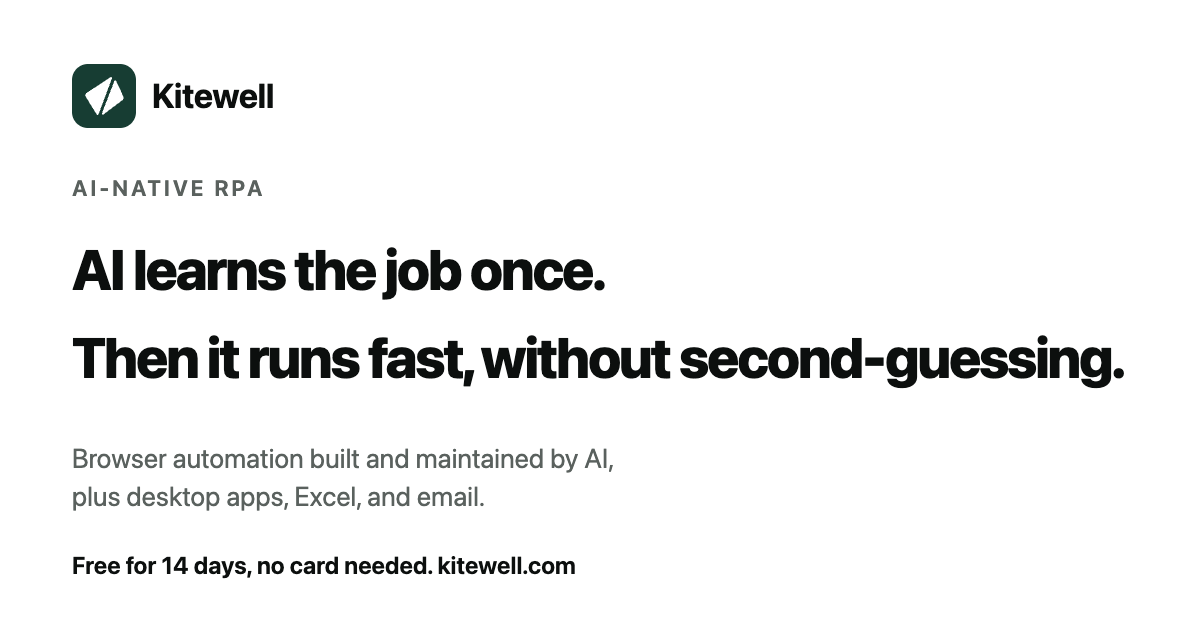
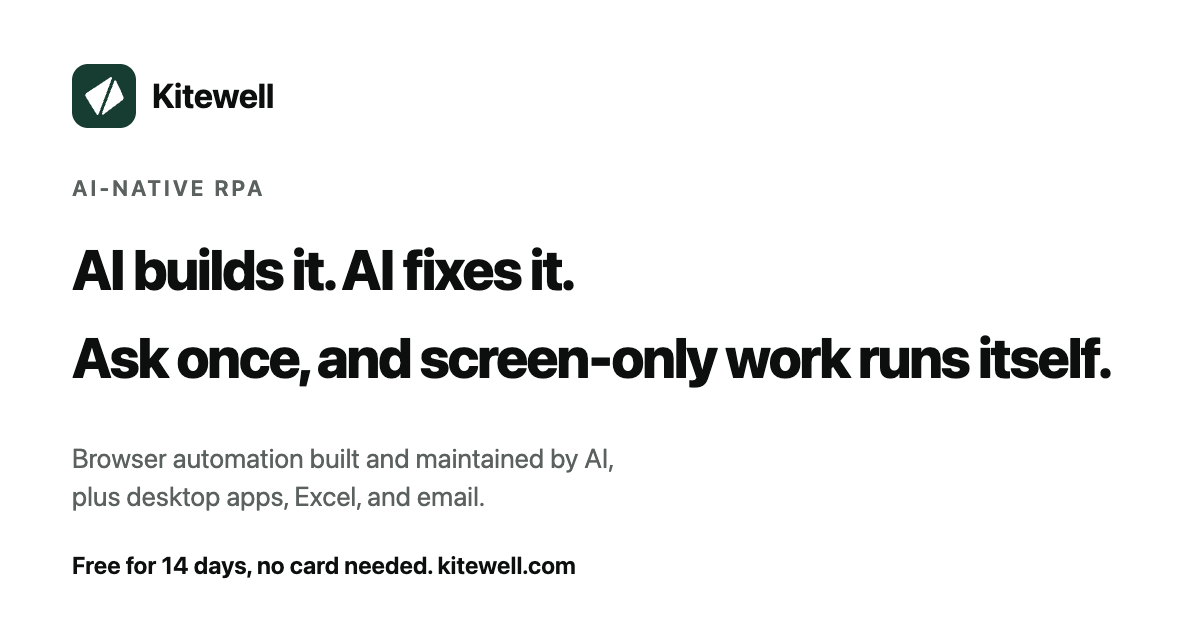
Lead the home page with AI building and fixing
The headline sold speed, which is not why anyone pays and where
hand-built RPA wins. Say what people pay for instead: AI builds the
automation and repairs it, including work that only exists on a
screen.

Drop AI cost from the lead, speak once to people whose robots have
stopped, and say which way to try it: the browser for websites, the
download for internal systems and desktop apps.

Changed region(s): [[0.0617, 0.5127, 0.9558, 0.6333], [0.1233, 0.3921, 0.4933, 0.4825]]

diff --git a/website/src/styles/home.css b/website/src/styles/home.css
@@ -16,6 +16,12 @@
 :is(:lang(ja), :lang(zh), :lang(ko)) .home .intro h1 {
   font-size: clamp(32px, 4.8vw, 60px);
 }
+.home #hero-title {
+  font-size: clamp(36px, 4.6vw, 60px);
+}
+:is(:lang(ja), :lang(zh), :lang(ko)) .home #hero-title {
+  font-size: clamp(28px, 4vw, 52px);
+}
 .intro-lead {
   max-width: 44em;
   margin-top: 24px;
@@ -35,6 +41,13 @@
 }
 .intro > .fine {
   margin-top: 16px;
+}
+.intro-stalled {
+  max-width: 44em;
+  margin-top: 40px;
+  font-size: clamp(18px, 1.8vw, 22px);
+  font-weight: 600;
+  line-height: 1.55;
 }
 .intro-media {
   margin: 48px 0 0;

diff --git a/README.ja.md b/README.ja.md
@@ -9,14 +9,14 @@
   </a>
 </p>
 
-<h1 align="center">AI は一度で覚える。<br>あとは迷わず、速く動く。</h1>
+<h1 align="center">作るのも、直すのも、AI。<br>画面でしかできない仕事も、頼むだけで自動に。</h1>
 
 <p align="center">
   やってほしい仕事を伝えれば、AI が目の前のブラウザーで自動化をつくり、サイトが変わったら直します。デスクトップアプリ、Excel、メール、Claude Code などのコーディングエージェントも同じように、スケジュールや Webhook で、大事なところはあなたの OK を待って動きます。外出先からも、スマホで見守れます。
 </p>
 
 <p align="center">
-  <a href="https://kitewell.com/ja/#film"><strong>▶ 映像を見る（74 秒）</strong></a> ·
+  <a href="https://kitewell.com/ja/#film"><strong>▶ 映像を見る（67 秒）</strong></a> ·
   <a href="https://kitewell.com/ja/download/">ダウンロード</a> ·
   <a href="https://kitewell.com/ja/docs/getting-started/">はじめかた</a> ·
   <a href="https://kitewell.com/ja/docs/">ドキュメント</a> ·

diff --git a/README.md b/README.md
@@ -9,7 +9,7 @@
   </a>
 </p>
 
-<h1 align="center">AI learns the job once.<br>Then it runs fast, without second-guessing.</h1>
+<h1 align="center">AI builds it. AI fixes it.<br>Ask once, and screen-only work runs itself.</h1>
 
 <p align="center">
   Describe the job, and AI builds the automation in a browser you can watch,
@@ -19,7 +19,7 @@
 </p>
 
 <p align="center">
-  <a href="https://kitewell.com/#film"><strong>▶ Watch the 74-second film</strong></a> ·
+  <a href="https://kitewell.com/#film"><strong>▶ Watch the 67-second film</strong></a> ·
   <a href="https://kitewell.com/download/">Download</a> ·
   <a href="https://kitewell.com/docs/getting-started/">Get started</a> ·
   <a href="https://kitewell.com/docs/">Docs</a> ·
